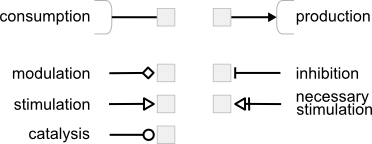
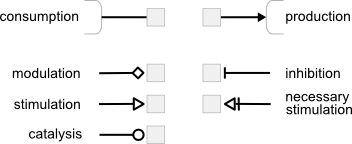
edge legend has changed to interaction legend, interaction legend image updated, removing highlight of compound nodes has been fixed

diff --git a/portal/src/main/webapp/js/network/common-functions.js b/portal/src/main/webapp/js/network/common-functions.js
@@ -139,14 +139,23 @@ function _applyHighlight(neighbors, edges, self)
             if( !bypass.nodes[n.data.id] ){
                 bypass.nodes[n.data.id] = {};
             }
-            bypass.nodes[n.data.id].opacity = 0.25;
+            if(n.data.glyph_class == "compartment" ||
+                n.data.glyph_class == "complex")
+                bypass.nodes[n.data.id].compoundOpacity = 0.25;
+            else
+                bypass.nodes[n.data.id].opacity = 0.25;
+
         });
 
         $.each(neighbors, function(i, n) {
             if( !bypass.nodes[n.data.id] ){
                 bypass.nodes[n.data.id] = {};
             }
-            bypass.nodes[n.data.id].opacity = 1;
+            if(n.data.glyph_class == "compartment" ||
+                n.data.glyph_class == "complex")
+                bypass.nodes[n.data.id].compoundOpacity = 1;
+            else
+                bypass.nodes[n.data.id].opacity = 1;
         });
 
         var opacity;
@@ -214,6 +223,7 @@ function _removeHighlights(self)
     {
         var styles = nodes[id];
         delete styles["opacity"];
+        delete styles["compoundOpacity"];
         delete styles["mergeOpacity"];
     }
 

diff --git a/portal/src/main/webapp/js/network/network-sbgn-vis.js b/portal/src/main/webapp/js/network/network-sbgn-vis.js
@@ -2012,7 +2012,7 @@ NetworkSbgnVis.prototype._createInteractionLegend = function(divId)
 	var id = "interaction_legend_" + divId;
 
     var html =
-        '<div id="' + id + '" class="network_interaction_legend hidden-network-ui" title="Edge Legend">' +
+        '<div id="' + id + '" class="network_interaction_legend hidden-network-ui" title="Interaction Legend">' +
             '<div id="interaction_legend_content" class="content ui-widget-content">' +
                 '<img src="images/network/sbgn-interaction-legend.png"/>' +
             '</div>' +
